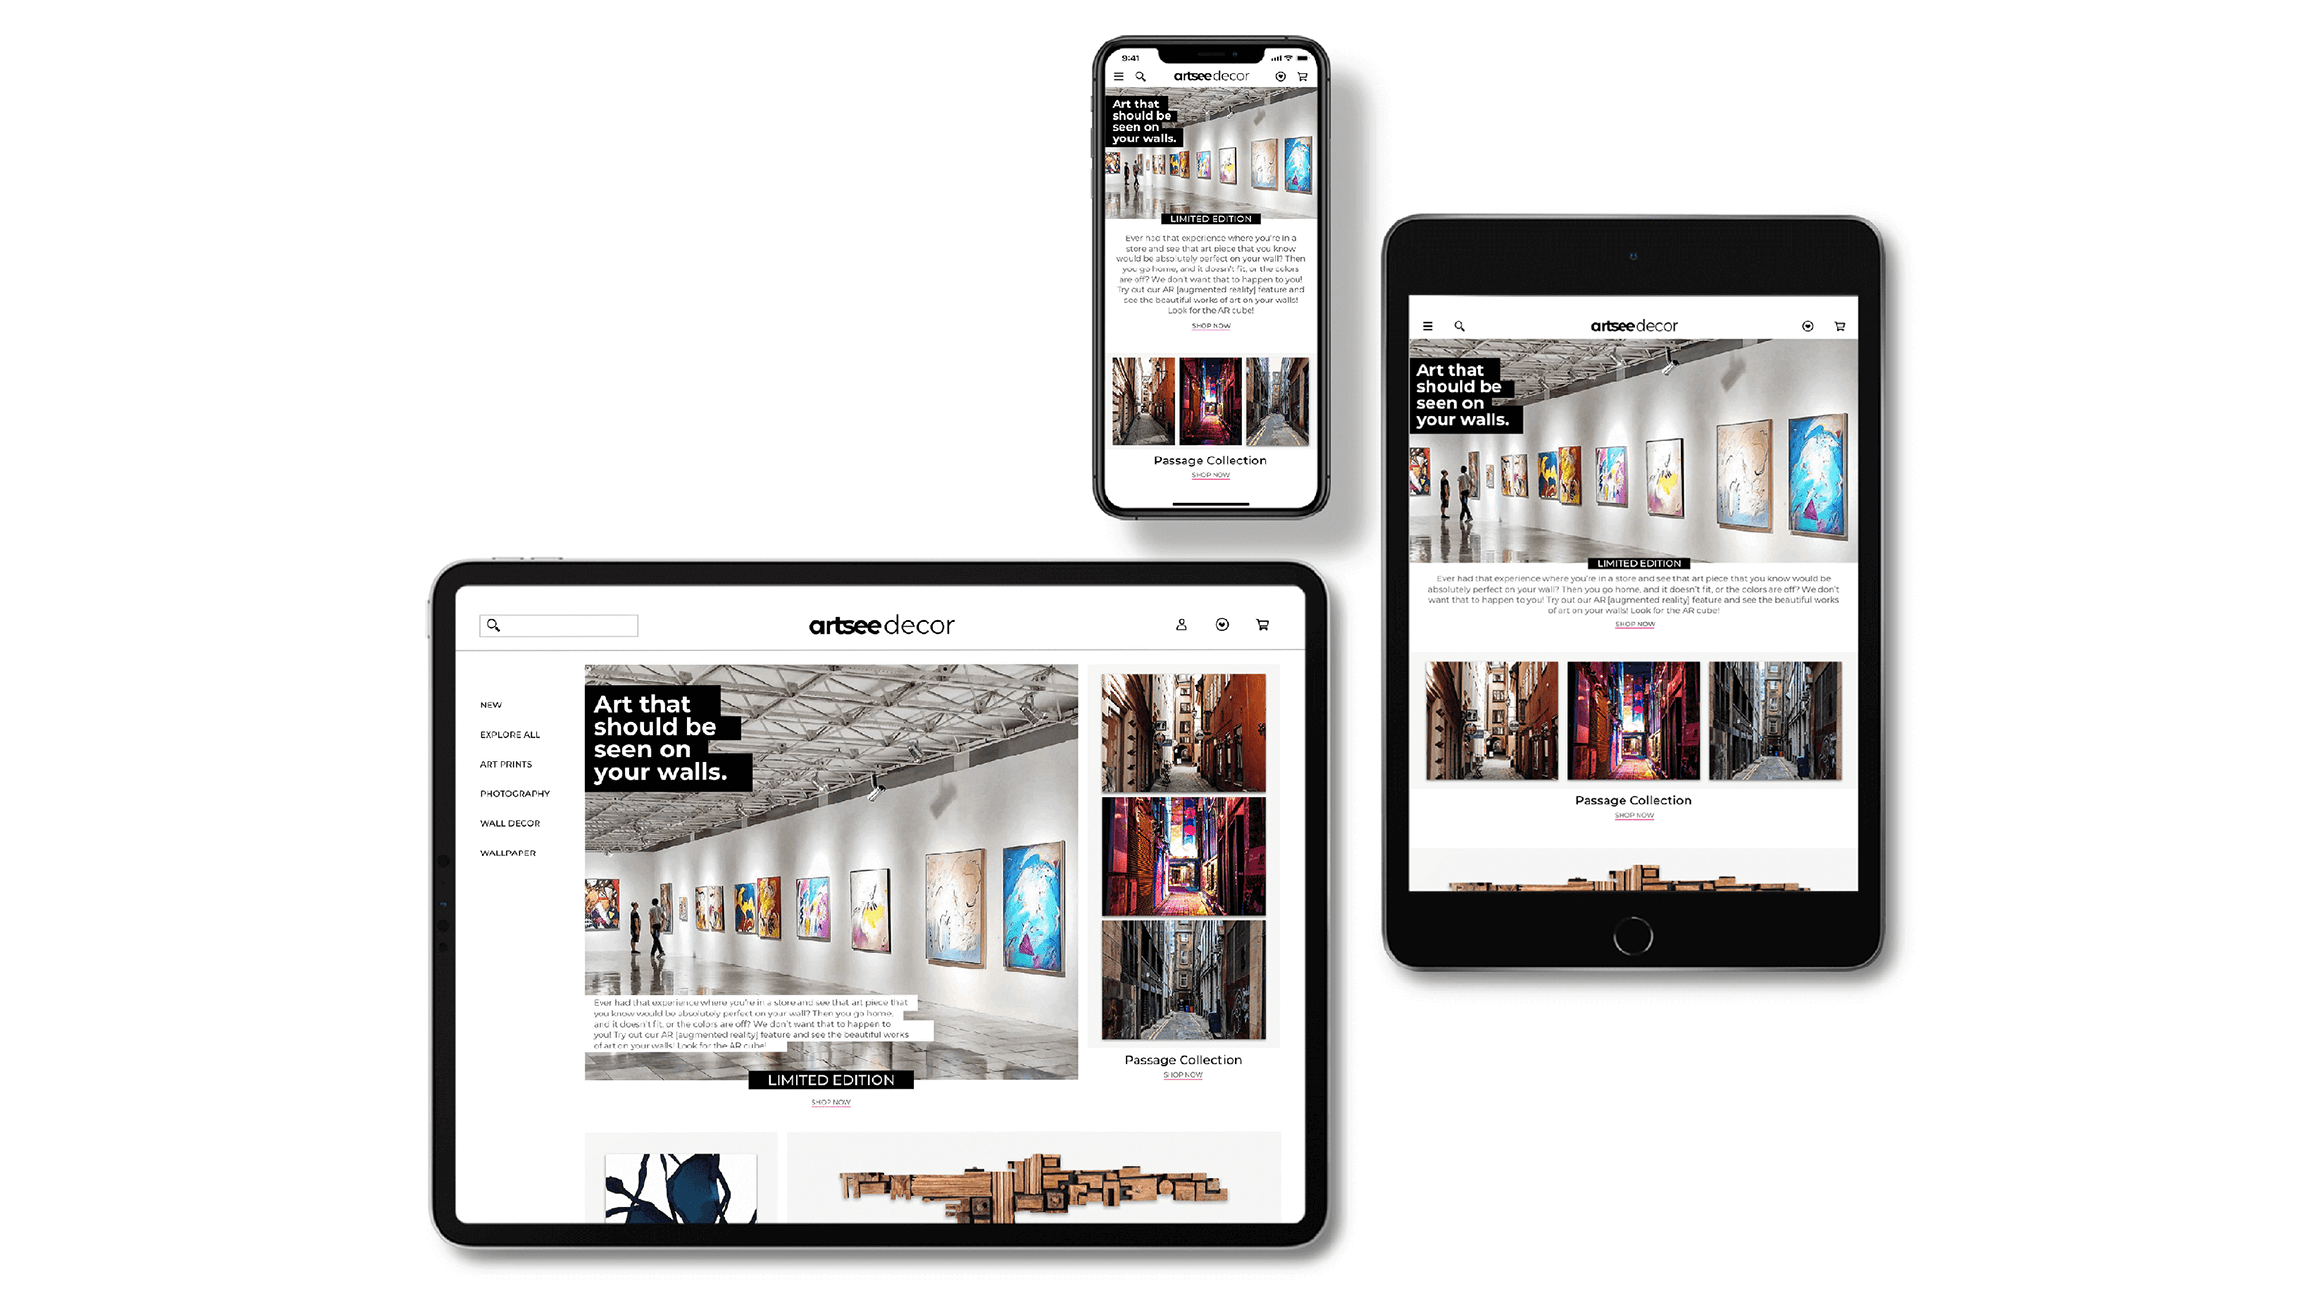
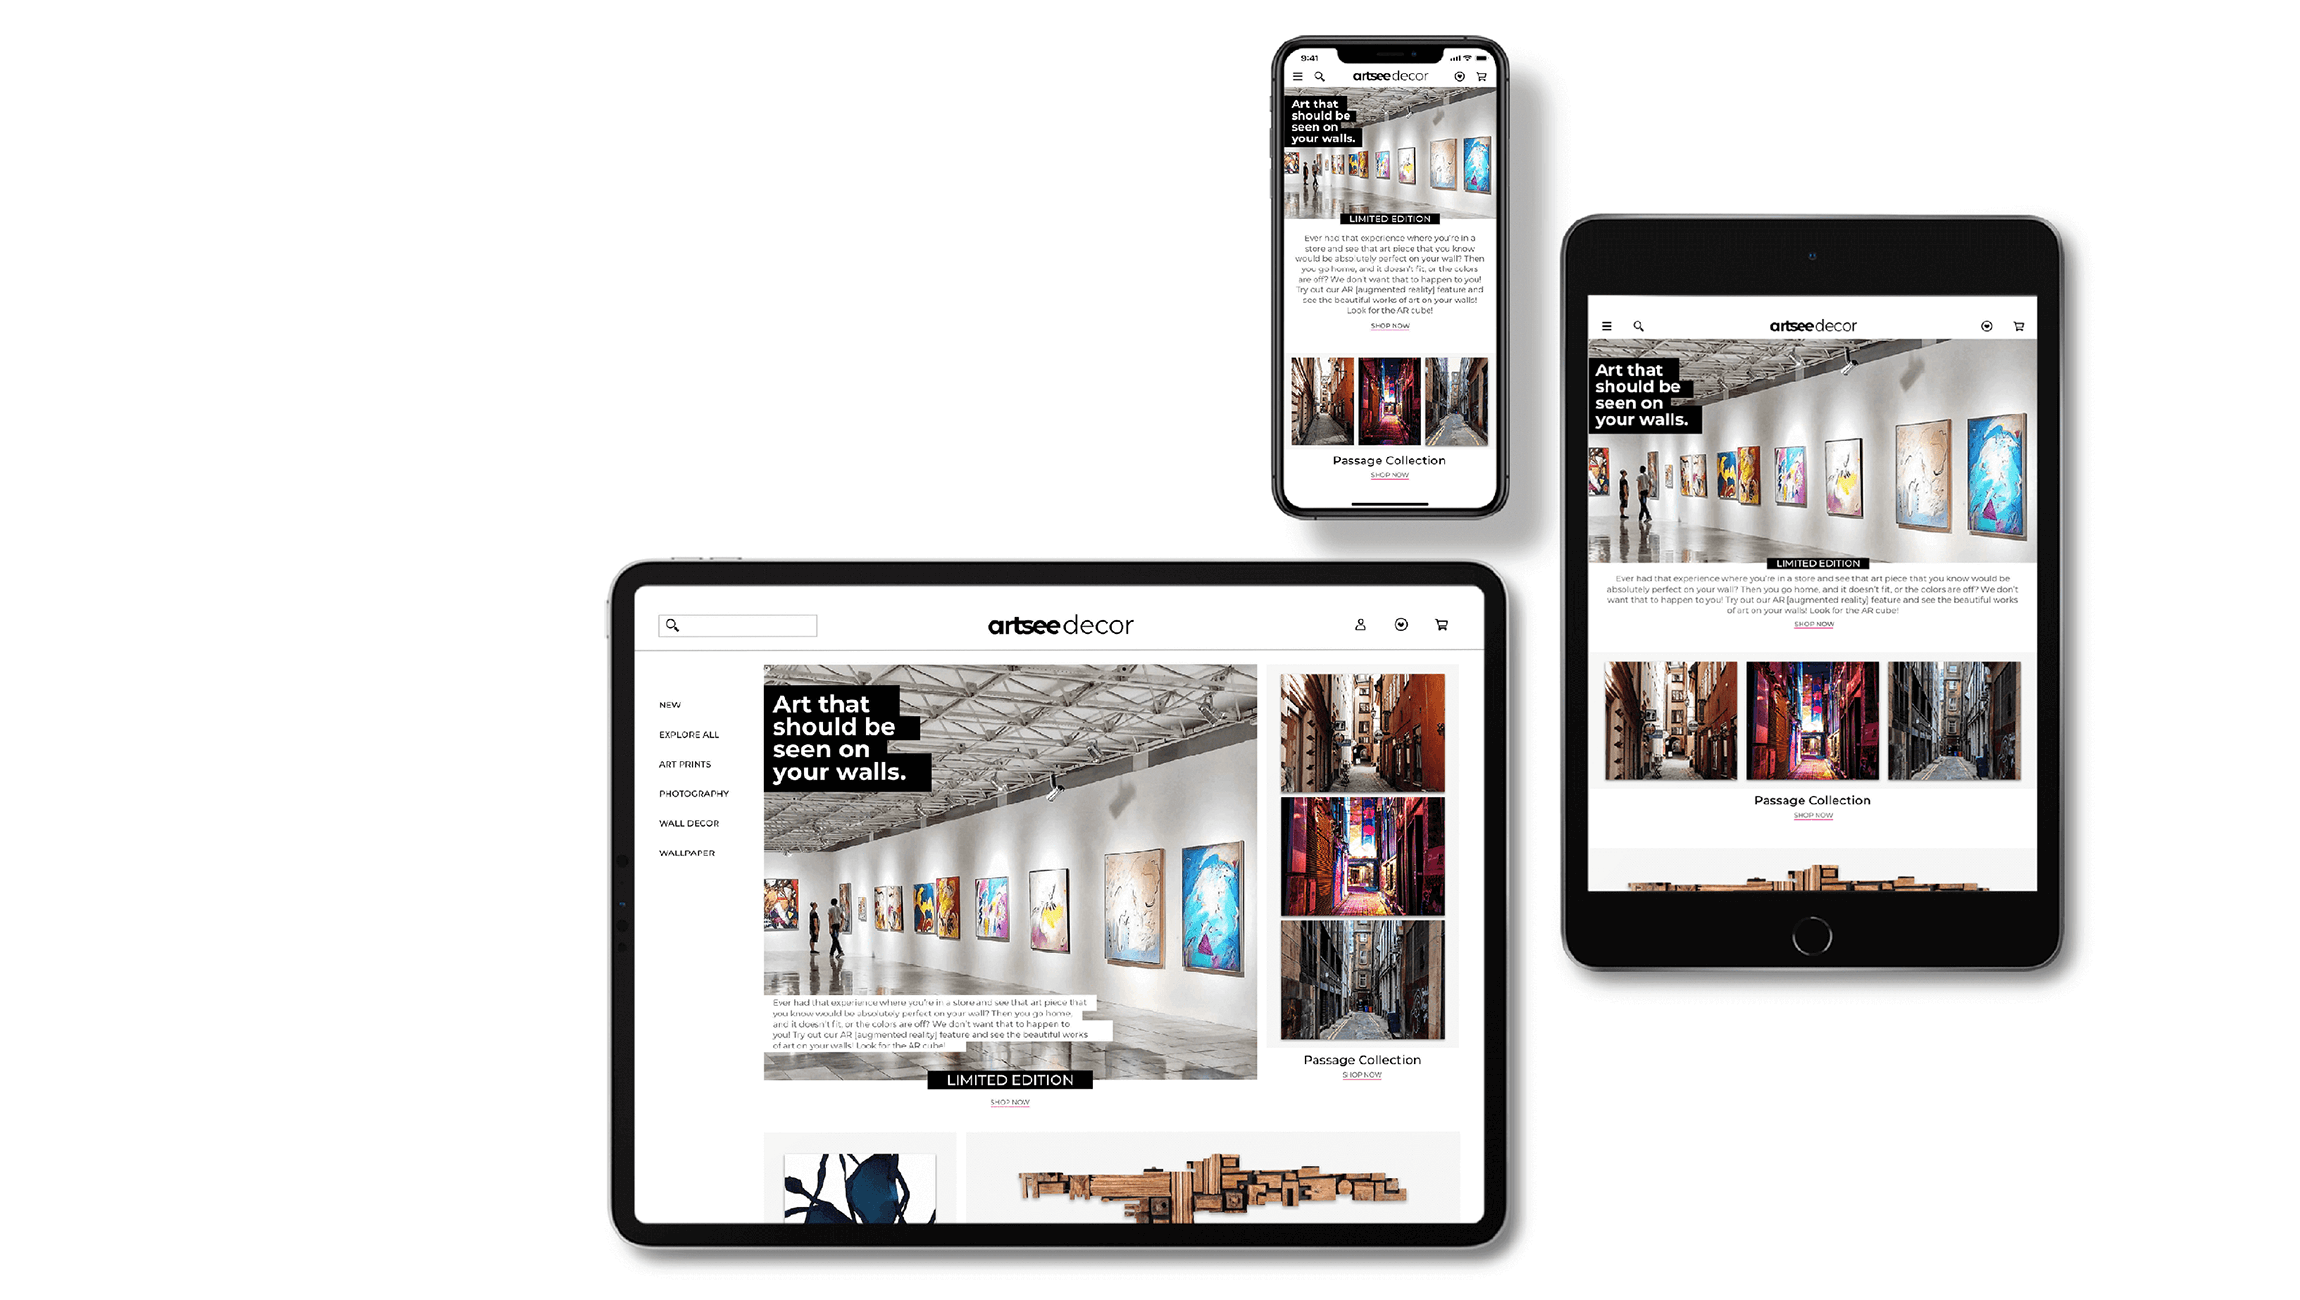
update image/ column width for mobile

Changed region(s): [[0.1852, 0.0, 0.9261, 0.9846]]

diff --git a/css/style.css b/css/style.css
@@ -9,13 +9,16 @@ Accent Color (Mid-Gray): #9BA1A3;
 Accent Color (Yellow): #F7F000;
 */
 /*
+h1 - name & main project titles
+h2 - subtitles
+h3 - 
 h4-proximanova-all-caps-font-app-tools;gray
 */
 
 * {
+  box-sizing: border-box;
   margin: 0px;
   padding: 0px;
-  box-sizing: border-box;
 }
 
 @font-face {
@@ -304,11 +307,11 @@ a:active {
 }
 
 .row {
-  margin: 50px 0;
+  margin: 15px 0;
 }
 
 #hero .row {
-  padding-bottom: 25px;
+  padding-bottom: 50px;
   border-bottom: 3px solid #000000;
 }
 #hero h1 {
@@ -319,7 +322,7 @@ a:active {
 }
 
 #work .row {
-  padding-bottom: 25px;
+  padding-bottom: 5px;
 }
 
 /* ----------------------------- HOVER ANIMATION ----------------------------- */

diff --git a/index.html b/index.html
@@ -63,7 +63,7 @@
       <div id="work">
         <div class="container">
           <div class="row">
-            <div class="col-8">
+            <div class="col-12">
               <div class="onHover">
                 <div class="hideOnHover">
                   <picture>
@@ -96,7 +96,7 @@
               </div>
             </div>
 
-            <div class="col-4">
+            <div class="col-12">
               <div class="projectDesc">
                 <div class="row"></div>
                 <h2>ARTSEE DECOR</h2>
